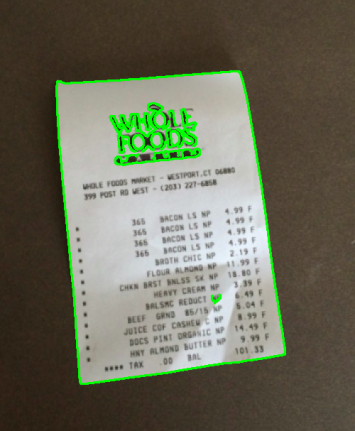
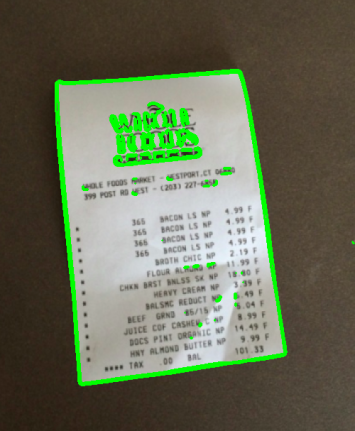
feat: deteccion de bordes propio

diff --git a/Primer_ examen/algoritmos/bordes.py b/Primer_ examen/algoritmos/bordes.py
@@ -167,19 +167,21 @@ gray=cv2.cvtColor(img,cv2.COLOR_BGR2GRAY)
 #gray = grises(img)   
 
 # Detectando bordes
+# Gaussian Blur Opencv
 #gray=cv2.GaussianBlur(gray,(5,5),0)  
-gray=cv2.GaussianBlur(gray,(11,11),0) # kernelde 11x11 y sigma igual a 0, sigma determina la cantidad de blur
-#gray=gaussian_blur(gray,(11, 11), 2) #2.6  Smoothing 
+#gray=cv2.GaussianBlur(gray,(11,11),0) # kernelde 11x11 y sigma igual a 0, sigma determina la cantidad de blur
+
+# Gaussian Blur
+gray=gaussian_blur(gray,(11, 11), 2) #2.6  Smoothing 
 
 # Canny
-'''
 sob_x = convolve(gray, Sx) 
 sob_y = convolve(gray, Sy) 
 out = magnitude(sob_x, sob_y)
 edge = thresholding(out, 120, 200)  #MinThreshold and MaxThreshold
-'''
 
-edge=cv2.Canny(gray, 75, 200)  #75 Threshold min y 200 Threshold max
+# Canny Opencv
+#edge=cv2.Canny(gray, 75, 200)  #75 Threshold min y 200 Threshold max
 #edge=cv2.Canny(gray,100,200) #MinThreshold and MaxThreshold
 
 # Coloreando bordes
